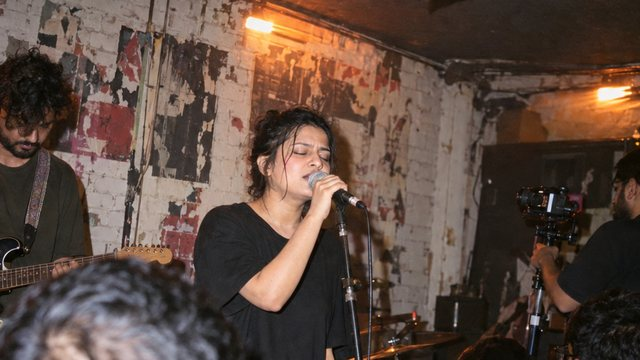
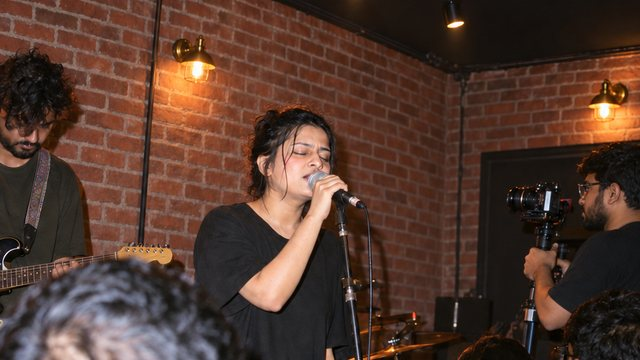
Music Videos photo: clean brick walls, no fan, camera on the singer
Edited from the same frame, so the singer, crowd, framing and flash look
stay. Hero monitor frame re-cut to match. Log entry #198.

diff --git a/INTEGRATION-LOG.md b/INTEGRATION-LOG.md
@@ -4135,3 +4135,17 @@ The minaret close-up (#196) was too tight for a nearly square card that also zoo
 ## The menu's small labels
 
 "CREATIVE STUDIO" in the menu head and the LAHORE / PARIS clock labels were set in the base menu's `--x-mono` stack, which on Windows is Consolas. Inside `.mzx--studio` they are General Sans now (600, tracked .2 to .22em), like every other label on the Studio site. The Labs menus keep their monospace.
+
+---
+
+## #198
+### The gig, cleaned up
+*Cache token unchanged (`?v=20`): image only, same file names.*
+
+The Music Videos photograph (#197) was liked as it was, but its room read as run-down: peeling whitewash, torn posters, a ceiling fan. And the camera operator was pointing his gimbal at the wall. It was edited rather than regenerated, so the singer, the crowd, the framing and the flash snapshot look all stay. Codex's image tool was given the photograph itself and told to change three things only:
+
+- walls of clean, intact exposed brick with small brass wall lights;
+- the fan gone, replaced by a matte black ceiling with track spotlights;
+- the operator turned toward the stage, his lens on the singer.
+
+A second variant (deep charcoal walls with wood slat panels) was made and set aside; it read more lounge than venue. `s01-music.jpg` (145 KB) and the hero monitor's `slate-01.jpg` are re-cut from the edit with the same crops as before.
